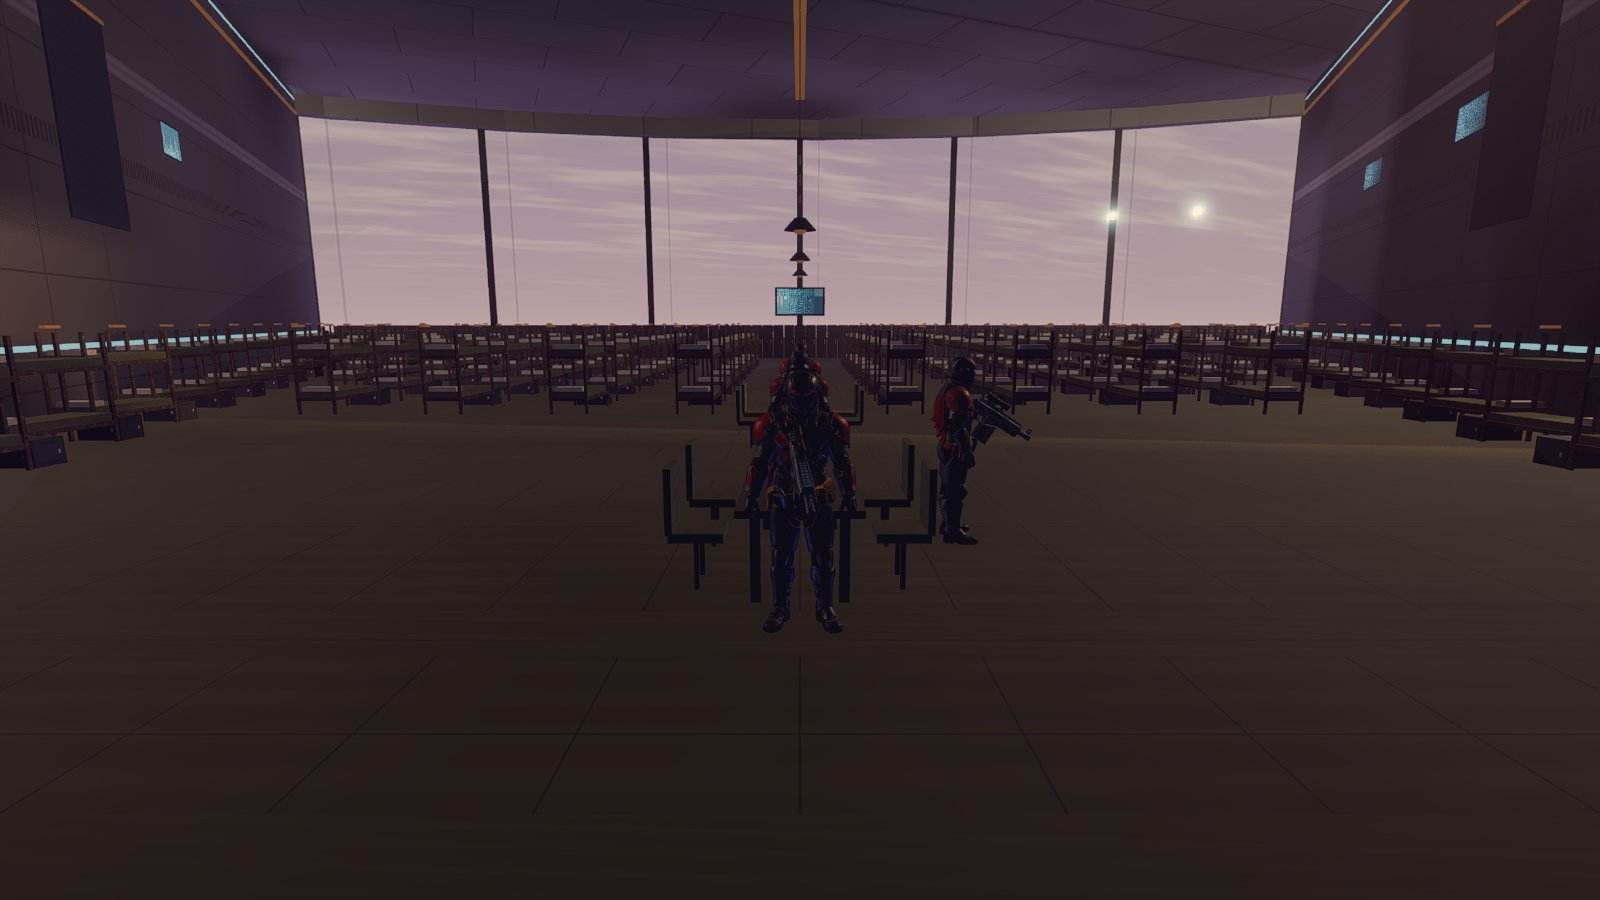
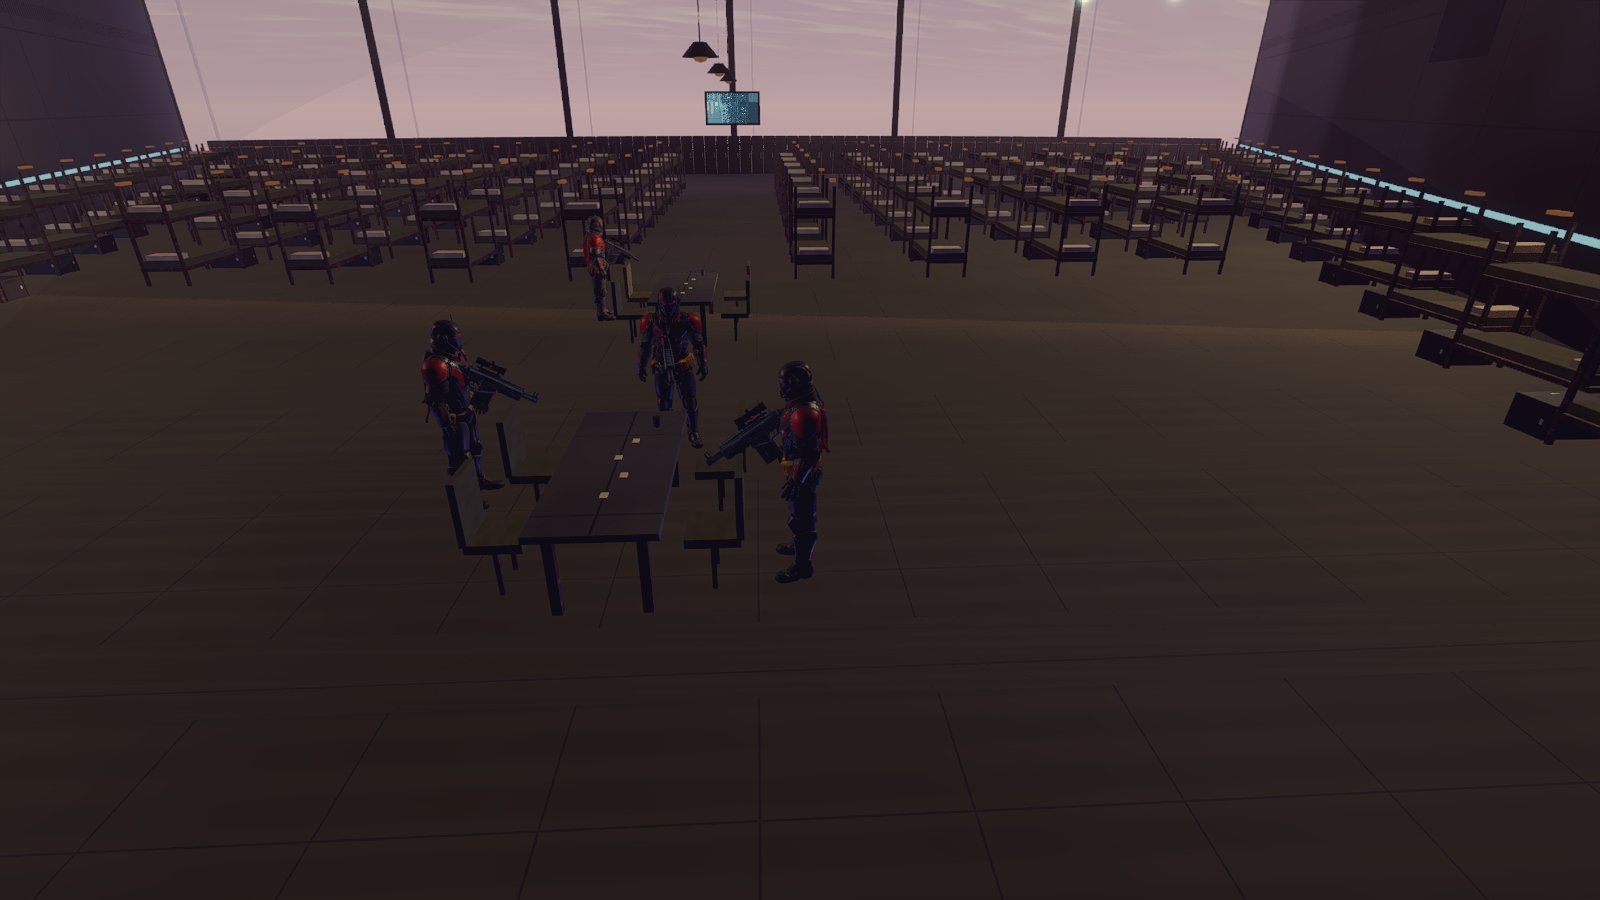
Station top floor: the general and guards up on the dais, troopers round the tables
- The station's soldiers faced backwards: StationRemnant._yaw gave
  atan2(-x, -z), but NpcBody looks along its +Z (the cruiser's crew use
  atan2(x, z)). Every trooper on the Remnant deck, the locals' guards and
  the new top floor stood with their backs to their post's facing.
- Bridge: all three up on the command dais, the general at its front edge
  1.25 m clear of the chair, an honour guard either side a step behind him.
- Barracks: the off-duty troopers stand behind the card tables' chairs and
  at a table's end, not in a row down the room's middle.
- Tests: every top post is clear of the furniture's colliders (with a probe
  that finds a card table, so the check can see furniture), and every
  soldier faces his post's way.

Issue #314.

Claude-Session: https://claude.ai/code/session_01Jv1qF14MTKPjTbac3NN6JY

diff --git a/CHANGELOG.md b/CHANGELOG.md
@@ -5,9 +5,12 @@ Plain English, newest on top. One entry per milestone.
 ## The Remnant on the ring station's top floor (2026-11-28)
 
 - **A Remnant general stands on the bridge's command dais** by the great window,
-  with an honour guard either side of its steps.
-- **Troopers off duty in both barracks**, four in each, round the card tables
-  and in the bunk aisle. They are slower to spot you than troopers on duty.
+  in front of the command chair, with an honour guard either side of him.
+- **Troopers off duty in both barracks**, four in each, standing round the card
+  tables behind the chairs. They are slower to spot you than troopers on duty.
+- **Everyone aboard the station faces the right way.** The Remnant on their
+  deck and the locals' guards who replace them used to stand with their backs
+  to what they were guarding.
 - **They are part of the station's Remnant.** Clearing the Remnant deck in the
   second tower is no longer enough: the station falls to the locals only once
   the general, his guard and the off-duty troopers are dead too. Then the
